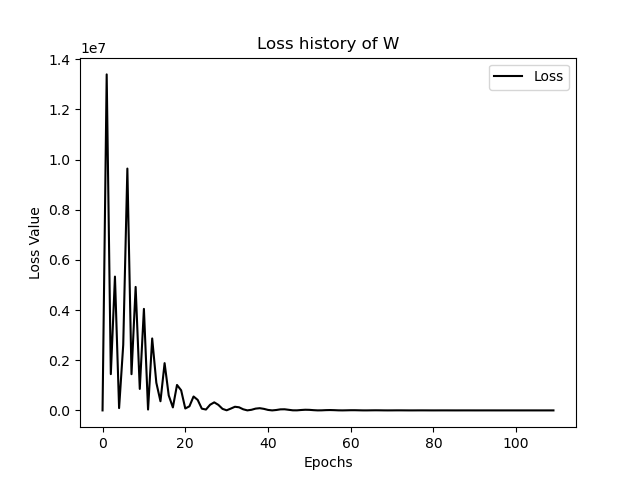
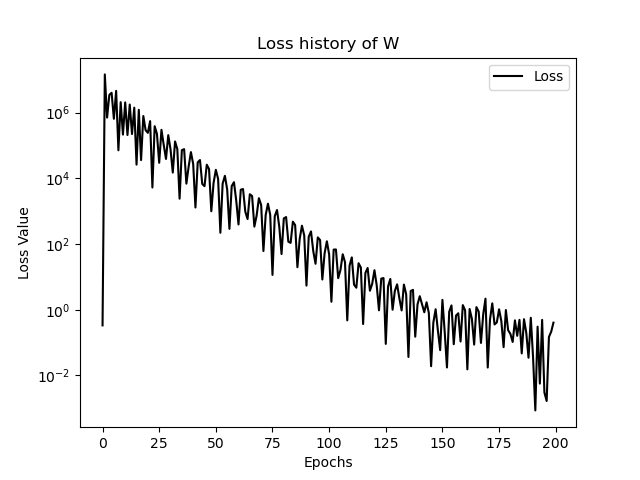
fnn_w.py updated and w vel retrained

diff --git a/FNN/FNN_W.py b/FNN/FNN_W.py
@@ -22,6 +22,12 @@ import numpy as np
 from pathlib import Path
 from torch.utils.data import Dataset
 
+from idxList import idxList
+from idxList import numOfAllCases
+import h5py
+
+
+
 class FSimDataset(Dataset):
   def __init__(self, file:Path, caseList:list):
     """
@@ -92,16 +98,14 @@ class FSimDataset(Dataset):
     print("Todo: .plotVTK(...)")
     pass
 
-# split the data, 27 = 22 + 5
-numOfCases = 27
+# split the data, 49 = 40 + 9
+numOfCases = numOfAllCases
 ratioTest = 0.2
 
 sizeOfTestSet = np.int64(numOfCases * ratioTest)
 
 np.random.seed(42)
 permut = np.random.permutation(numOfCases)
-
-from idxList import idxList
 
 listTestCase = []
 for i in permut[:sizeOfTestSet]:
@@ -112,9 +116,6 @@ listTrainCase = []
 for i in permut[sizeOfTestSet:]:
   theCase = "C" + "%03d"%idxList[i]
   listTrainCase.append(theCase)
-
-from pathlib import Path
-import h5py
 
 filePathH5 = Path("../FSCases/FSHDF/MatrixData.h5")
 
@@ -399,9 +400,10 @@ class Regression(nn.Module):
   def saveLossHistory2PNG(self):
     df = pandas.DataFrame(self.progress, columns=["Loss"])
     ax = df.plot( title  = "Loss history of W",\
-                  color  = "black",                   \
-                  xlabel = "Epochs",                  \
-                  ylabel = "Loss Value")
+                  color  = "black",            \
+                  xlabel = "Epochs",           \
+                  ylabel = "Loss Value",       \
+                  logy   = True)
     ax.figure.savefig("lossHistory_W.png")
     pass
   pass
@@ -428,9 +430,9 @@ R.saveLossHistory2PNG()
 fsDataset_test = FSimDataset(filePathH5, listTestCase)
 
 #len_test = fsDataset_test.numCases
-# for C025
-inp, uField, coords = fsDataset_test[0]
-#print(type(inp), type(pField))
+# for C034
+inp, wField, coords = fsDataset_test[0]
+#print(type(inp), type(wField))
 
 #outPresTorch = R.forward(inp)
 
